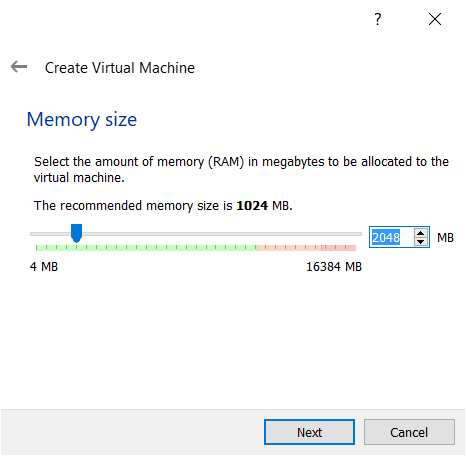
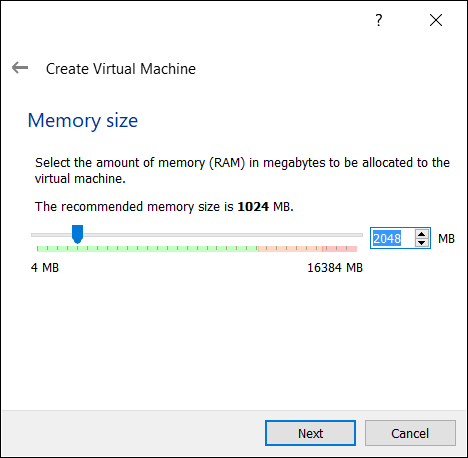
Corrected images and instructions in README.md.

diff --git a/README.md b/README.md
@@ -24,9 +24,7 @@ This tutorial is broken down into three parts:
 
 ## Installing GNS3 in CentOS
 
-The makers of GNS3 did a great job explaining how to install their network simulator on Windows; check out [https://docs.gns3.com/docs/getting-started/installation/windows/](https://docs.gns3.com/docs/getting-started/installation/windows/ "GNS3 Windows Install"). Setting up GNS3 in Ubuntu and Debian is pretty straight forward as well: check out [https://docs.gns3.com/docs/getting-started/installation/linux](https://docs.gns3.com/docs/getting-started/installation/linux "GNS3 Linux Install").
-
-However, we will be using CentOS 7.9 for labs and demos in this repository, and GNS3 doesn't work straight-out-of-the-box with Fedora, Red Hat Linux (RHEL), and CentOS.
+Installing GNS on [Windows](https://docs.gns3.com/docs/getting-started/installation/windows/ "GNS3 Windows Install"), [Ubuntu or Debian](https://docs.gns3.com/docs/getting-started/installation/linux "GNS3 Linux Install") is pretty straight forward. However, we will be using CentOS 7.9 for labs and demos in this repository, and GNS3 doesn't work straight-out-of-the-box with Fedora, Red Hat Linux (RHEL), and CentOS.
 
 >**NOTE** - Why are we using CentOS? First, this is my daily OS. Second...
 >- Approximately [20% of servers running Linux](https://w3techs.com/technologies/details/os-linux "Usage statistics of Linux for websites") use Fedora, Red Hat Linux (RHEL), and CentOS. RHEL is also second, behind Microsoft, in [paid enterprise OS subscriptions](https://www.idc.com/getdoc.jsp?containerId=US46684720 "Worldwide Server Operating Environments Market Shares, 2019").
@@ -38,7 +36,9 @@ To get started, download the latest ISO image of CentOS 7 from [the CentOS downl
 
 - [VMware Workstation Player Documentation](https://docs.vmware.com/en/VMware-Workstation-Player/index.html "VMware Workstation Player Documentation")
 
->**NOTE** - The focus of this tutorial is to use GNS3 to test our scripts, not to install operating systems or create virtual machines; there are already tons of websites dedicated to setting up OS's and VM's. However, whether you use VMWare or VirtualBox, make sure you:
+>**NOTE** - The focus of this tutorial is to use GNS3 to test our scripts, not to install operating systems or create virtual machines. There are many websites dedicated to setting up OS's and VM's, and we will not repeat those steps here.
+> 
+>However, whether you use VMWare or VirtualBox, make sure you:
 > 
 > - Allocate 2048 MB of RAM to your machine  (e.g., in VirtualBox...):
 > 
